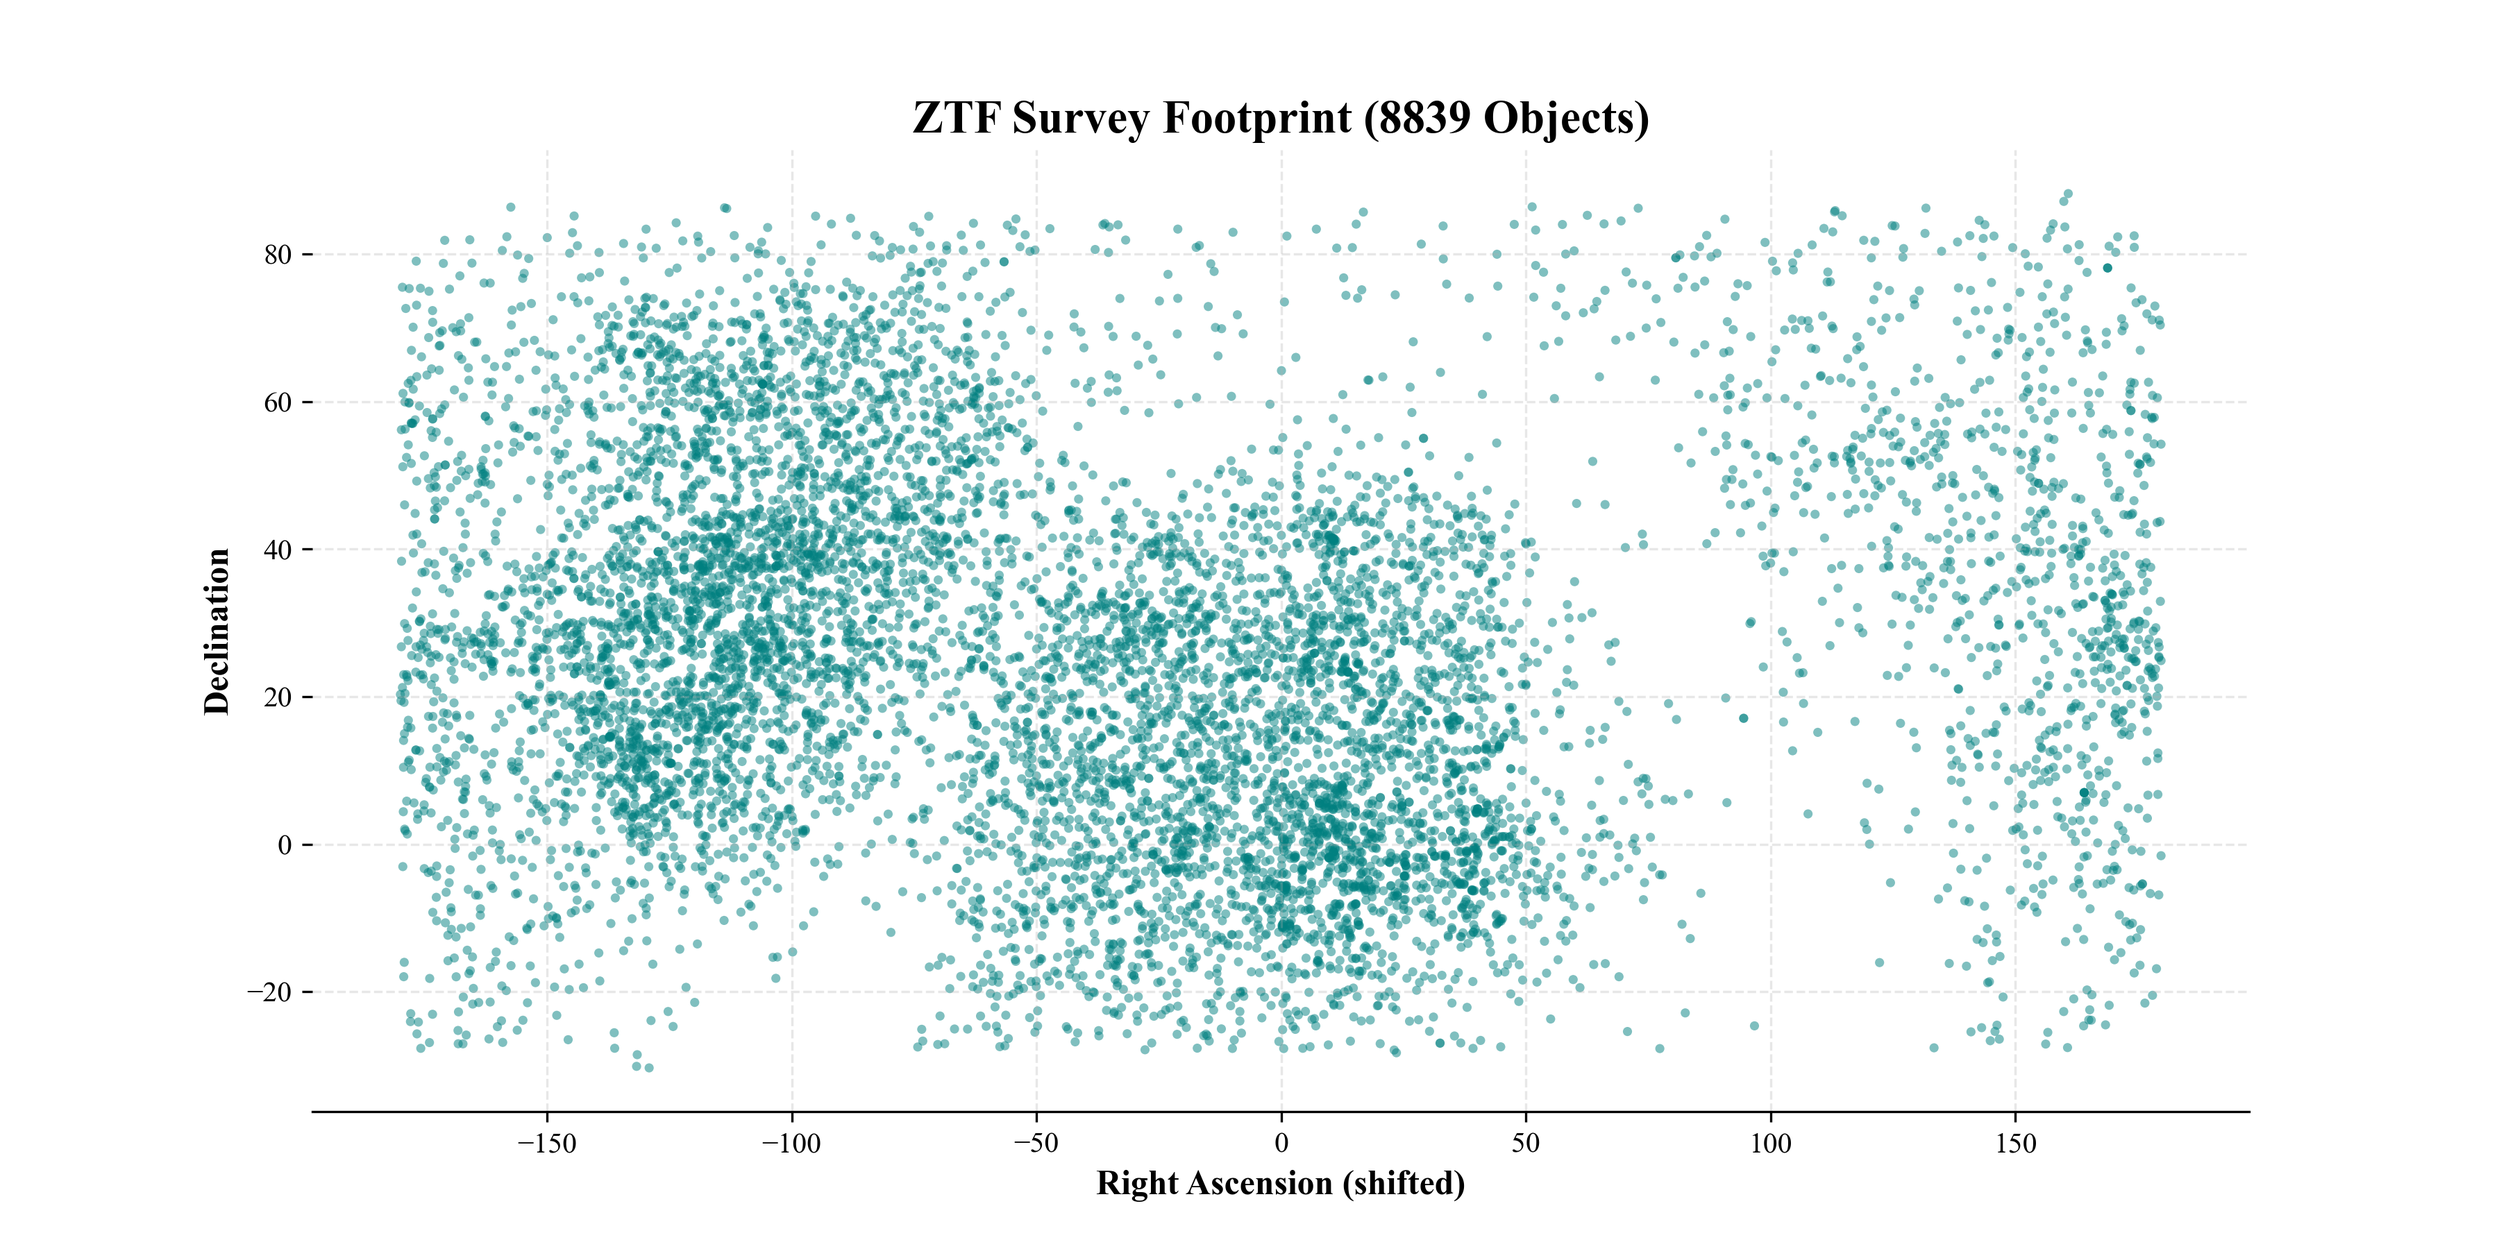
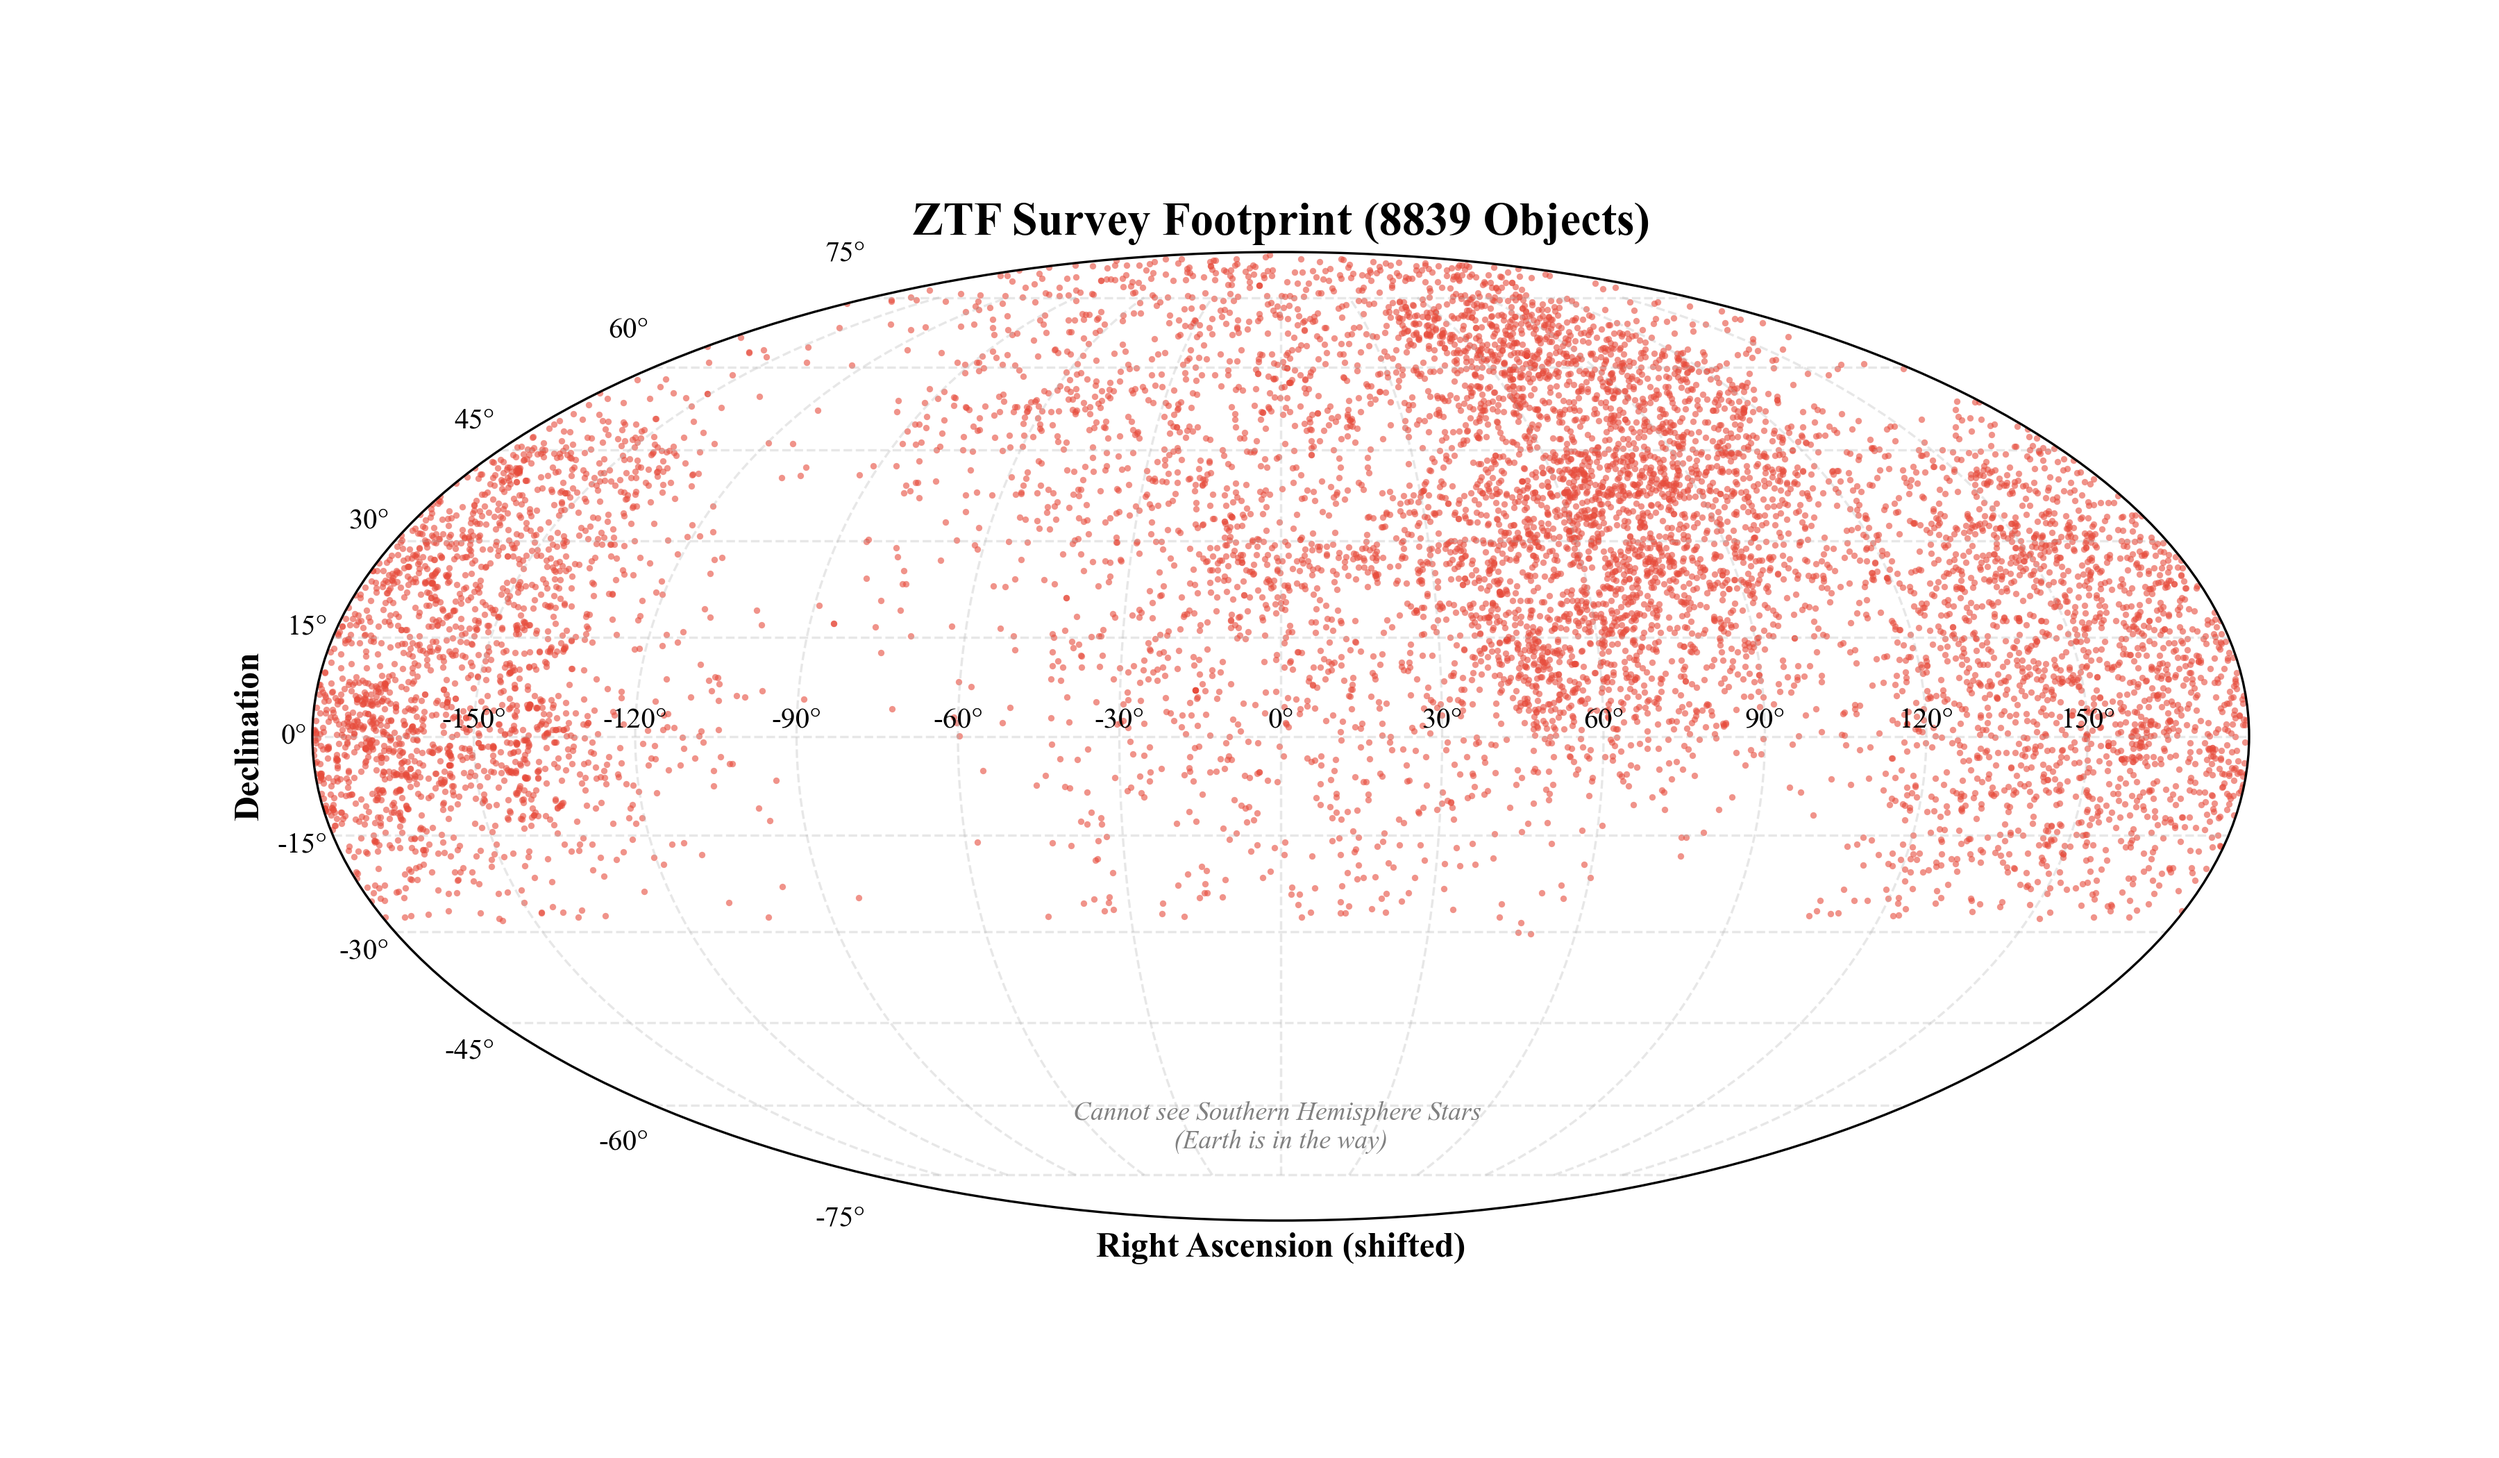
Updated galactic_map to demonstrate a more real-world view. Added documentation to the sample and readme file.

Changed region(s): [[0.0622, 0.0622, 0.9022, 0.8711], [0.4356, 0.9333, 0.5911, 0.9644], [0.7778, 0.8089, 0.84, 0.84]]

diff --git a/scripts/plots.py b/scripts/plots.py
@@ -1,5 +1,6 @@
 import duckdb
 import pandas as pd
+import numpy as np
 import matplotlib.pyplot as plt
 import seaborn as sns 
 import matplotlib
@@ -18,8 +19,9 @@ matplotlib.rcParams["font.family"] = 'Times New Roman'
 # ==========================================
 print("Generating Sky Map...")
 
-# Figure size:
-plt.figure(figsize=(12, 6))
+# Figure size: (choosing mollweide projection for full-sky view)
+plt.figure(figsize=(12, 7))
+ax = plt.subplot(111, projection="mollweide")
 
 # -- DATA PREPARATION --
 
@@ -31,19 +33,14 @@ map_query = """
 df_map = con.execute(map_query).df()
 
 # shifting RA so the map centers correctly (0-360 -> -180 to 180)
-df_map['ra_shifted'] = df_map['ra'].apply(lambda x: x - 360 if x > 180 else x)
+# need to convert to radians for mollweide projection
+ra_rad = (df_map['ra'] - 180) * np.pi / 180
+dec_rad = df_map['dec'] * np.pi / 180
 
 # PLOTTING MAP (PLOT 1): 
 
 # Scatter Plot:
-plt.scatter(
-    df_map['ra_shifted'], # x values
-    df_map['dec'], # y values
-    alpha=0.5, 
-    s=10, # size of points
-    c='teal', 
-    edgecolor='none'
-)
+ax.scatter(ra_rad, dec_rad, s=5, alpha=0.6, color='#E74C3C', lw=0)
 
 # FORMATTING:
 plt.title(f"ZTF Survey Footprint ({len(df_map)} Objects)", fontsize=16, weight='bold')
@@ -51,10 +48,10 @@ plt.xlabel("Right Ascension (shifted)", fontsize=12, weight='bold')
 plt.ylabel("Declination", fontsize=12, weight='bold')
 plt.grid(True, linestyle='--', alpha=0.3)
 
-# Remove unnecessary spines
-plt.gca().spines['top'].set_visible(False)
-plt.gca().spines['right'].set_visible(False)
-plt.gca().spines['left'].set_visible(False)
+# The telescope is in the Northern Hemisphere (California), so it can't see the South Pole!
+plt.text(0, -1.2, "Cannot see Southern Hemisphere Stars \n(Earth is in the way)", 
+         horizontalalignment='center', fontsize=9, style='italic', color='gray')
+
 
 # saving figure as file in an output folder:
 os.makedirs("outputs", exist_ok=True)

diff --git a/sample/README.md b/sample/README.md
@@ -1,6 +1,6 @@
-# Team Coco
+# Team
 
-## Team members
+## Name: Yuthi Madireddy
 
 
 
@@ -8,15 +8,25 @@
 
 What data source did you work with?
 
+ Worked with the ALeRCE client library, which is a broker for astronomical alert streams. ALeRCE provides a method of interaction for other services and databases, which allows users to query for objects and classifications. For this project, I initialized the client to connect to the Zwicky Transient Facility (ZTF) API, which is a robotic astronomical survey based in California. The ZTF uses a large camera to scan for objects in the sky such as supernovae, asteroids, and other real-time astronomical events. Connected to the API to collect over 100,000 detection records of supernovae and variable stars to analyze the temporal behavior (light curves) and spatial distribution of these astronomical events. 
+
+
 
 ## Challenges / Obstacles
 
 What challenges did this data choice present in data gathering, processing and analysis, and how did you work through them? What methods and tools did you use to work with this data?
 
+- **Object Observation vs Detections**: The main challenge was distinguishing between unique astronomical objects and their multiple detections over time. Each object can have numerous observations, leading to a complex dataset. To address this, I structured the database to separate object metadata from detection records, ensuring clarity in data relationships.
+
+- **Idempotency**: Wanted to ensure that we could stop and restart the data gathering process without duplicating records. To address this, I utilized the 'INSERT OR IGNORE' command in SQLite to prevent duplicate entries based on unique constraints such as the object ID and detection timestamp.
 
 ## Analysis
 
 Offer a brief analysis of the data with your findings. Keep it to one brief, clear, and meaningful paragraph.
+
+By mapping the right ascension (RA) and the declination (Dec) from the collected observations, I was able to visualize the physical span of the telescope's survey area. The analysis revealed that the ZTF survey covers a significant portion of the northern sky, with a dense concentration of observations in specific regions. As a result the observations recorded are not reflective of the actual distribution of astronomical objects in the universe, but rather the areas where the telescope was directed. This highlights the importance of understanding observational biases when interpreting astronomical data.
+
+![Galactic Map](outputs/galactic_map.png)
 
 
 ## Plot / Visualization
@@ -25,4 +35,7 @@ Include at least one compelling plot or visualization of your work. Add images i
 
 ## GitHub Repository
 
-https://github.com/
+https://github.com/uvasds-systems/ds3022-data-project-3
+
+
+[def]: image.png
